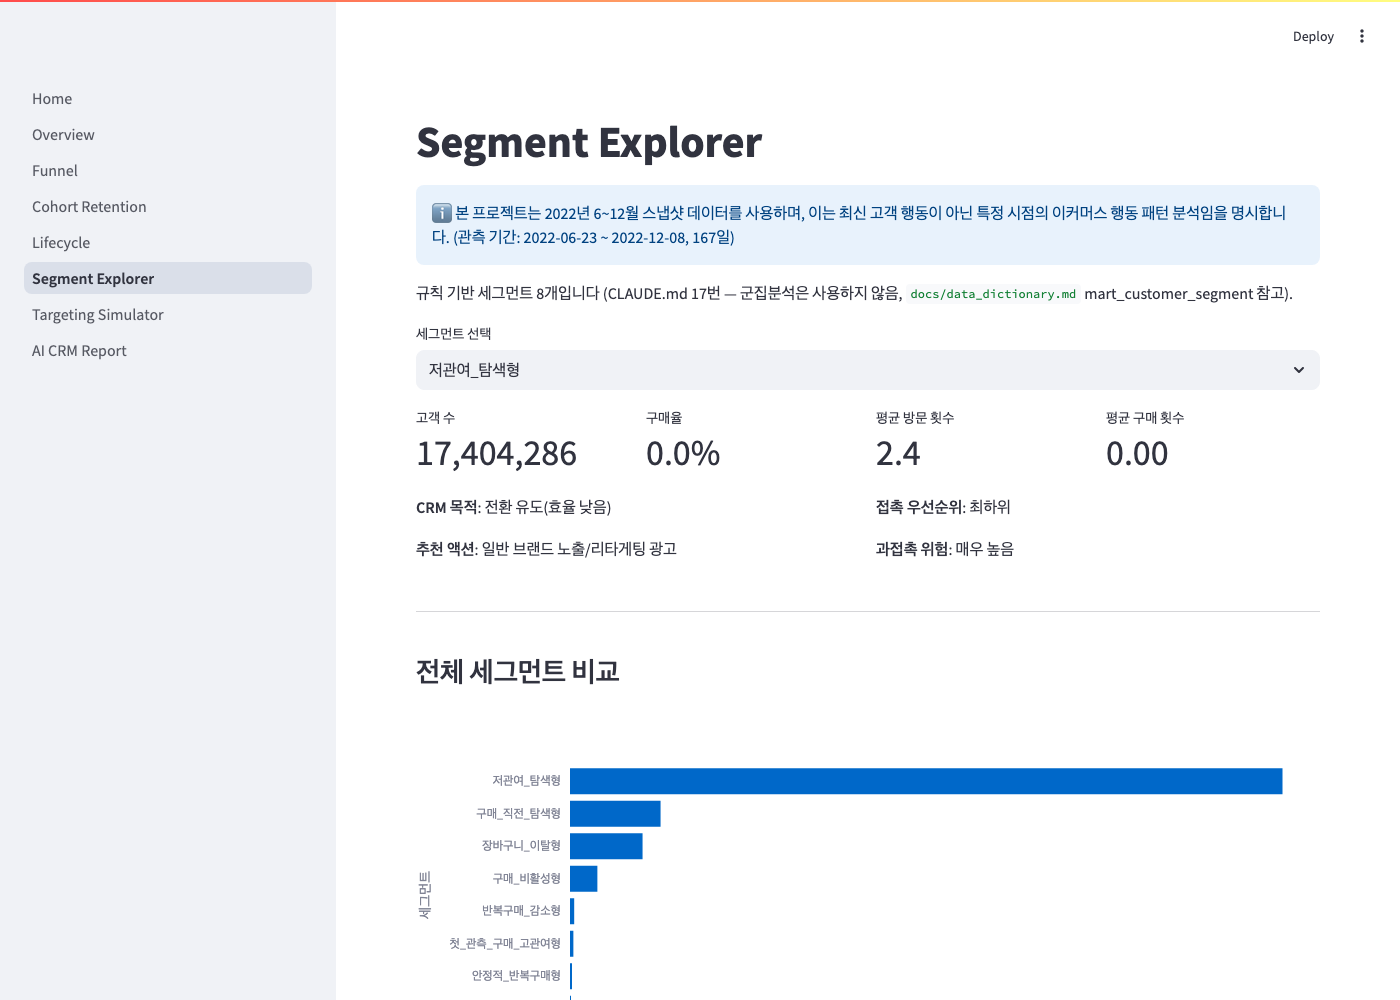
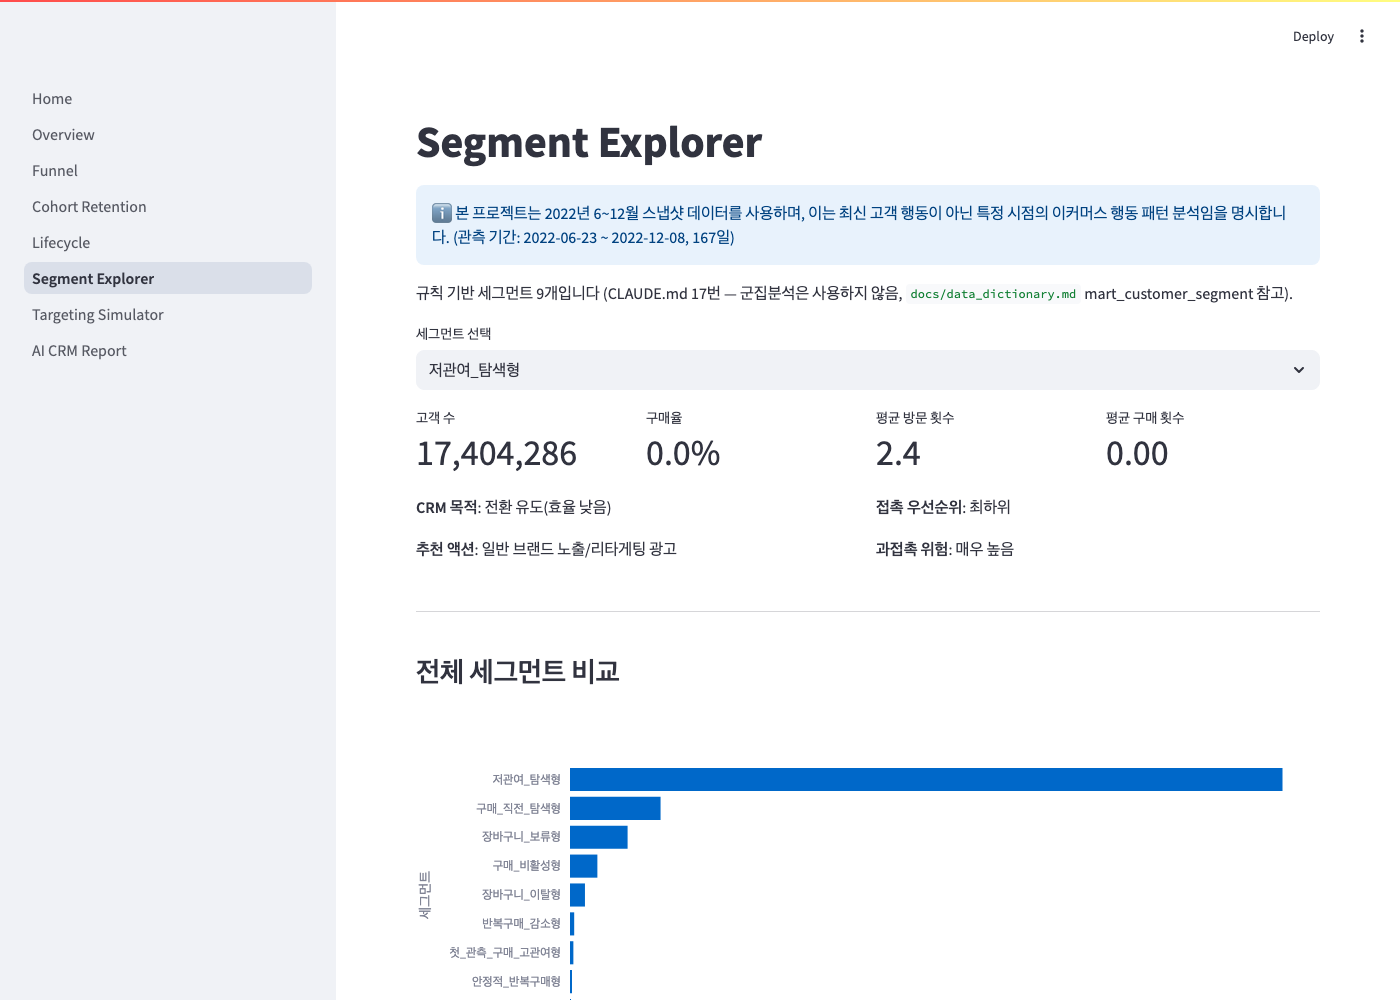
chore(phase4): regenerate dashboard/report artifacts for 9-segment split
세그먼트 분리(장바구니_이탈형/장바구니_보류형)를 대시보드·샘플 리포트·
포트폴리오 문서에 반영한다.

- scripts/build_dashboard_data.py: SEGMENT_META에 장바구니_보류형 추가,
  장바구니_이탈형 추천 액션을 "이미 제거한 상품"에 맞게 조정
- app/pages/5_Segment_Explorer.py: "세그먼트 8개" → "9개" 문구 수정
- tests/unit/test_dashboard_data.py: segment_profile.csv 행 수 8 → 9
- data/dashboard/segment_profile.csv, reports/figures/dashboard_segment_explorer.png:
  재생성(Streamlit 재구동 + Playwright 재캡처)
- reports/phase9_ai_crm_report_sample.{md,json}: 재생성 — data_loader.py가
  priority 기반으로 동적 필터링해 코드 수정 없이 장바구니_보류형이 자동
  반영됨
- README.md: "세그먼트 8개" → "9개" 문구 수정

Changed region(s): [[0.3071, 0.775, 0.9214, 0.992]]

diff --git a/scripts/build_dashboard_data.py b/scripts/build_dashboard_data.py
@@ -30,9 +30,15 @@ SEGMENT_META = {
     },
     "장바구니_이탈형": {
         "crm_purpose": "장바구니 이탈 회수(Cart Recovery)",
-        "recommended_action": "장바구니 리마인더, 재고/가격 알림, 소액 할인",
+        "recommended_action": "대안 상품 추천(이미 명시적으로 제거한 상품이라 동일 상품 리마인더보다 적합), 강도 높은 프로모션",
         "priority": "매우 높음",
         "over_contact_risk": "낮음~중간",
+    },
+    "장바구니_보류형": {
+        "crm_purpose": "체크아웃 완결 유도(Checkout Completion)",
+        "recommended_action": "가벼운 장바구니 리마인더, 재고 임박 알림 — 아직 거부 신호 없어 강한 프로모션은 불필요",
+        "priority": "높음",
+        "over_contact_risk": "낮음",
     },
     "첫_관측_구매_고관여형": {
         "crm_purpose": "2차 구매 유도(Second Purchase Activation)",

diff --git a/tests/unit/test_dashboard_data.py b/tests/unit/test_dashboard_data.py
@@ -34,9 +34,10 @@ def test_lifecycle_distribution_has_8_stages():
     assert abs(df["pct"].sum() - 100) < 0.01
 
 
-def test_segment_profile_has_8_segments_with_crm_metadata():
+def test_segment_profile_has_9_segments_with_crm_metadata():
+    # 2026-08-08: 장바구니_이탈형을 장바구니_이탈형/장바구니_보류형으로 분리해 8 -> 9
     df = pd.read_csv(DASHBOARD_DIR / "segment_profile.csv")
-    assert len(df) == 8
+    assert len(df) == 9
     for col in ["crm_purpose", "recommended_action", "priority", "over_contact_risk"]:
         assert df[col].notna().all(), f"{col}에 결측 존재 — SEGMENT_META 매핑 누락 의심"
 

diff --git a/app/pages/5_Segment_Explorer.py b/app/pages/5_Segment_Explorer.py
@@ -12,7 +12,7 @@ st.title("Segment Explorer")
 show_data_period_notice()
 
 st.markdown(
-    "규칙 기반 세그먼트 8개입니다 (CLAUDE.md 17번 — 군집분석은 사용하지 않음, "
+    "규칙 기반 세그먼트 9개입니다 (CLAUDE.md 17번 — 군집분석은 사용하지 않음, "
     "`docs/data_dictionary.md` mart_customer_segment 참고)."
 )
 

diff --git a/reports/phase9_ai_crm_report_sample.md b/reports/phase9_ai_crm_report_sample.md
@@ -17,7 +17,8 @@
 
 ## 3. Recommended Actions
 - [구매_직전_탐색형] (고객 2,212,414명, 접촉 우선순위 높음) 목적: 구매 유도(Conversion)에 맞는 CRM 액션을 검토해볼 수 있습니다.
-- [장바구니_이탈형] (고객 1,772,451명, 접촉 우선순위 매우 높음) 목적: 장바구니 이탈 회수(Cart Recovery)에 맞는 CRM 액션을 검토해볼 수 있습니다.
+- [장바구니_보류형] (고객 1,406,964명, 접촉 우선순위 높음) 목적: 체크아웃 완결 유도(Checkout Completion)에 맞는 CRM 액션을 검토해볼 수 있습니다.
+- [장바구니_이탈형] (고객 365,487명, 접촉 우선순위 매우 높음) 목적: 장바구니 이탈 회수(Cart Recovery)에 맞는 CRM 액션을 검토해볼 수 있습니다.
 - [반복구매_감소형] (고객 102,363명, 접촉 우선순위 높음) 목적: 조기 재활성화(Early Re-engagement)에 맞는 CRM 액션을 검토해볼 수 있습니다.
 - [첫_관측_구매_고관여형] (고객 82,368명, 접촉 우선순위 높음) 목적: 2차 구매 유도(Second Purchase Activation)에 맞는 CRM 액션을 검토해볼 수 있습니다.
 - [안정적_반복구매형] (고객 31,553명, 접촉 우선순위 높음(유지 목적)) 목적: 유지·보상(Retention & Loyalty)에 맞는 CRM 액션을 검토해볼 수 있습니다.
@@ -25,6 +26,7 @@
 
 ## 4. Testable Hypotheses
 - [구매_직전_탐색형] 세그먼트에 목적에 맞는 CRM 액션을 적용하면 반응률이 달라질 수 있다는 가설은 A/B 테스트로 검증이 필요합니다.
+- [장바구니_보류형] 세그먼트에 목적에 맞는 CRM 액션을 적용하면 반응률이 달라질 수 있다는 가설은 A/B 테스트로 검증이 필요합니다.
 - [장바구니_이탈형] 세그먼트에 목적에 맞는 CRM 액션을 적용하면 반응률이 달라질 수 있다는 가설은 A/B 테스트로 검증이 필요합니다.
 - [반복구매_감소형] 세그먼트에 목적에 맞는 CRM 액션을 적용하면 반응률이 달라질 수 있다는 가설은 A/B 테스트로 검증이 필요합니다.
 - [첫_관측_구매_고관여형] 세그먼트에 목적에 맞는 CRM 액션을 적용하면 반응률이 달라질 수 있다는 가설은 A/B 테스트로 검증이 필요합니다.

diff --git a/README.md b/README.md
@@ -110,7 +110,7 @@ DuckDB 기반, 3계층 구조.
   ~10.9%, 14일 ~13.9%, 28일 ~18.1% (검열된 최근 코호트 제외)
 - **라이프사이클**: 데이터 기반 recency 임계값(14/28/60일, 구매 간격
   중앙값·p90의 배수로 산출)으로 8개 상태 분류
-- **세그먼트**: 규칙 기반 8개(군집분석 미사용), CRM 목적·추천 액션·접촉
+- **세그먼트**: 규칙 기반 9개(군집분석 미사용), CRM 목적·추천 액션·접촉
   우선순위·과접촉 위험 포함
 
 | | |
